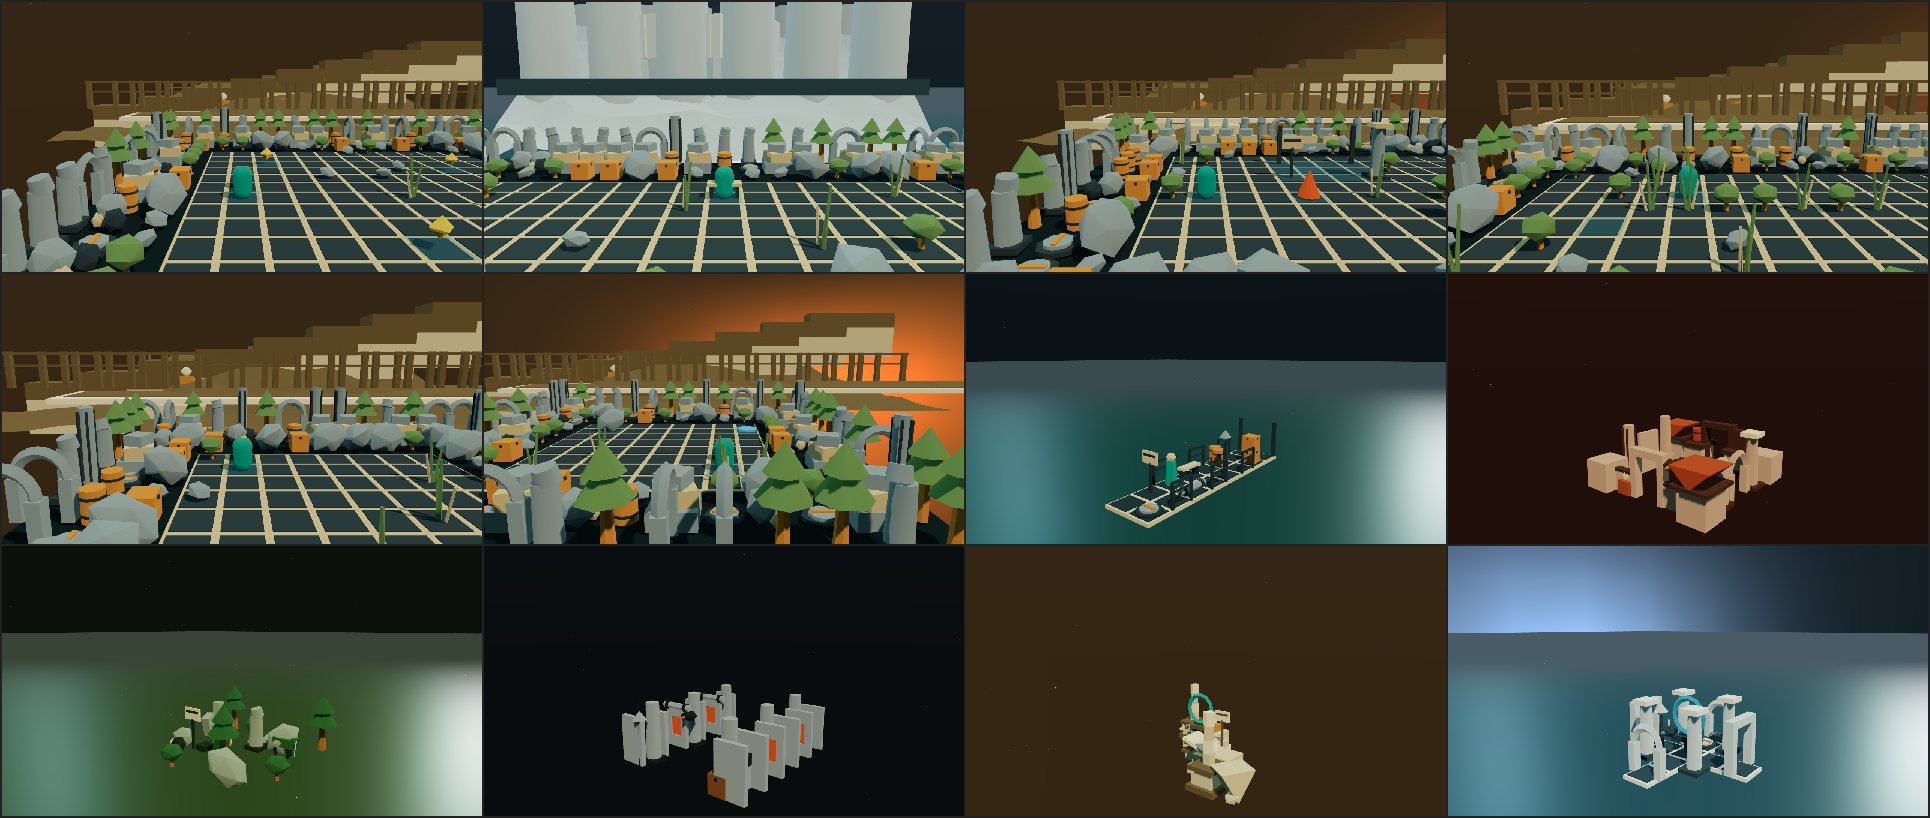
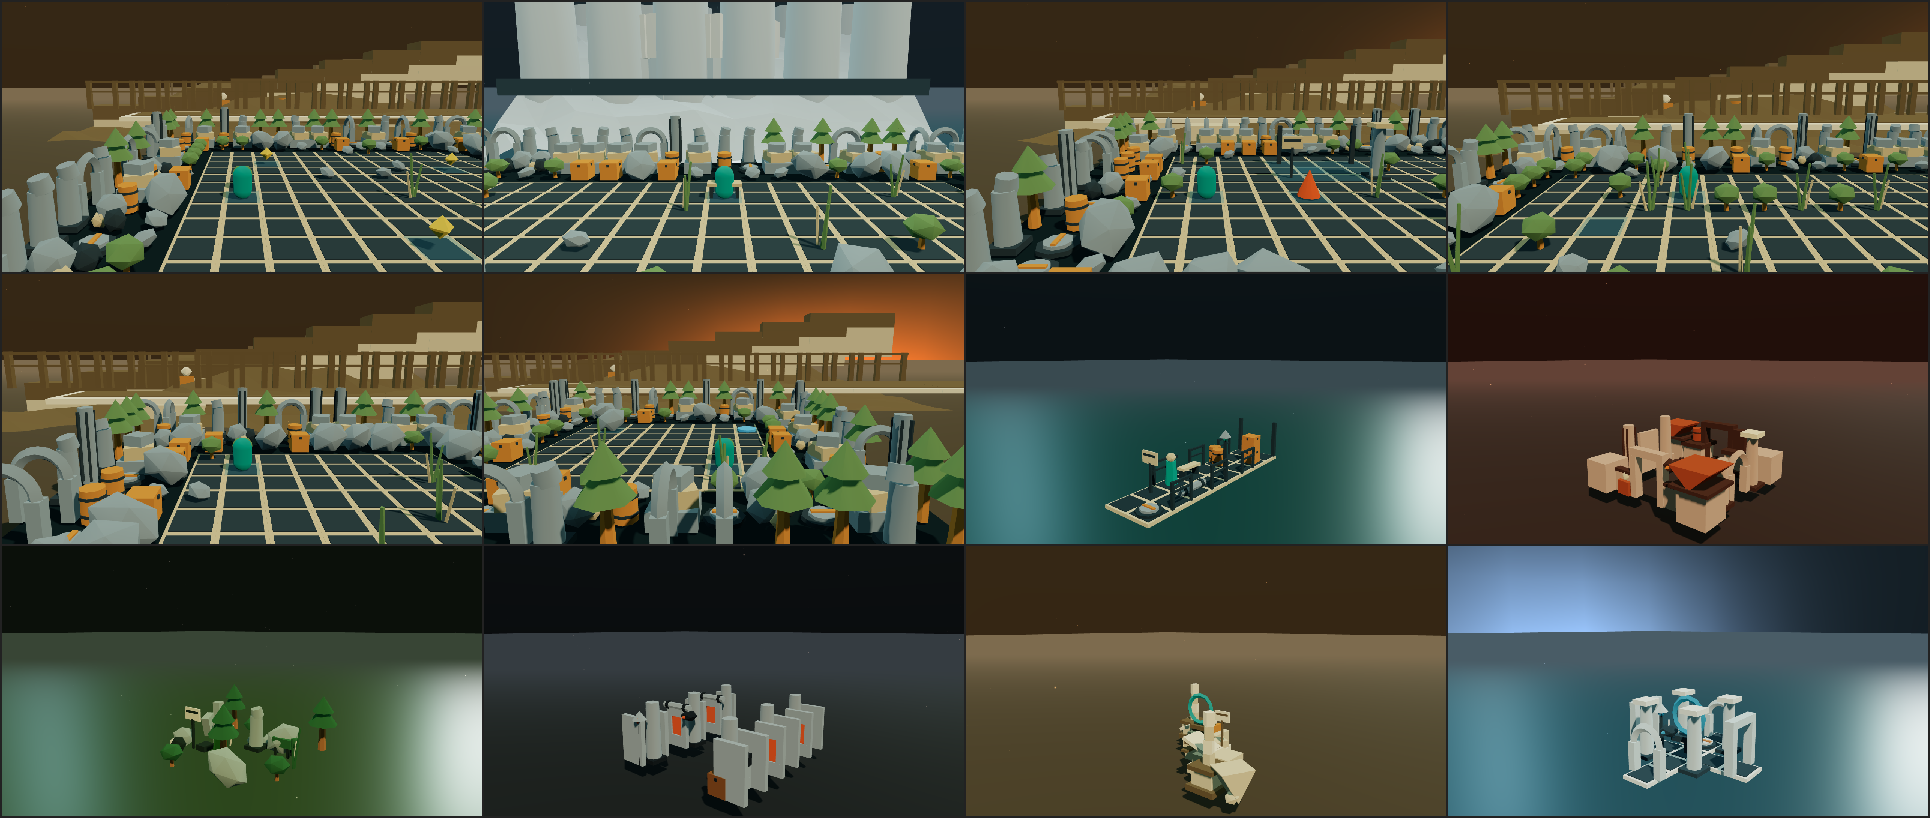
feat(worldstream): give every world ground to stand on

diff --git a/e2e/worldstream-atmosphere.spec.ts b/e2e/worldstream-atmosphere.spec.ts
@@ -12,27 +12,26 @@ import { IMAGE_THRESHOLDS, measureImage } from '../src/worldstream/image-judge';
  * existuje — čte **pixely, které plátno doopravdy nakreslilo**, přes
  * `window.__viewer.pixels()`.
  *
- * ## Podíl oblohy dnes neměří atmosféru, měří rámování
+ * ## Podíl oblohy: nejdřív měřil rámování, teď soudí obojí
  *
- * **Kamera produktu míří celým snímkem do země.** Statický pohled sedí na
- * `[7, 7, 9]` a míří do počátku, tedy 31,5° pod vodorovnou, při svislém
- * poloúhlu objektivu 22,5°: horní hrana snímku leží 9° POD obzorem. Herní
- * pohled je horší, `FOLLOW_OFFSET {0, 6, 7,5}` klopí o 38,7°.
+ * **Do 28. 8. 2026 mířila kamera produktu celým snímkem do země.** Statický
+ * pohled seděl na `[7, 7, 9]` a mířil do počátku, tedy 31,5° pod vodorovnou
+ * při svislém poloúhlu 22,5°: horní hrana snímku ležela 9° POD obzorem. Herní
+ * pohled byl horší, odstup `{0, 6, 7.5}` klopil o 38,7°. Podíl oblohy se tady
+ * proto **měřil a vypisoval, ale nesoudil** — vypovídal o kameře, ne o vzduchu.
  *
- * Naměřeno 28. 8. 2026, a ta dvě čísla jsou celý problém:
+ * Tři kroky, každý se svým naměřeným číslem:
  *
- * | Svět | Obloha | Mrtvá plocha | Odstíny |
+ * | Svět | Do T8 | Po T8 (rámování) | Po zemi (H2) |
  * |---|---|---|---|
- * | `harbor-pier` | **0,0 %** — podlaha kitu zakryje pozadí beze zbytku | 0,28 | 3 |
- * | `dunes-terrace` | **94,9 %** — podlaha dojde a zbytek je prázdná koule | **0,88** | 1 |
- * | `frost-plateau` | **0,0 %** | 0,31 | 1 |
+ * | `harbor-pier` | 0,0 % · mrtvá 0,28 | 32,0 % · 0,34 | 32,0 % · 0,34 |
+ * | `dunes-terrace` | 94,9 % · **0,88** | 96,2 % · **0,84** | **32,5 % · 0,55** |
+ * | `frost-plateau` | 0,0 % · 0,31 | 31,8 % · 0,21 | 31,8 % · 0,19 |
  *
- * Atmosféra je v obou případech tatáž a pracuje správně. Liší se jen to, kam
- * se kamera dívá — a **rámování vlastní T8**, ne tahle úloha: `FollowCamera.tsx`
- * je v jejím seznamu souborů a její AC žádá oblohu na 15–45 % plochy nad všemi
- * dvaceti světy. Podíl oblohy se tu proto **měří a vypisuje, ale nesoudí**;
- * soudí se počet světů, které soudce označí za mrtvé, a ten je připíchnutý.
- * Viz `Findings routed by the run` v `plans/P14-2026-08-28-vizualni-vrstva.md`.
+ * **T8 spravila dva světy ze tří a na třetí nestačila**, protože `dunes-terrace`
+ * nemá vodu a kit pod svět podlahu nestaví — pod obzorem tam nebylo nic, a to
+ * platí pro každý úhel. Doplnila to zem jako samostatné pole popisu vzhledu.
+ * Od té doby se podíl oblohy **soudí** pásmem 15–45 %.
  *
  * ## Co tedy tenhle soubor doopravdy hlídá
  *
@@ -57,28 +56,18 @@ const SETTLE_FRAMES = 5;
 /**
  * Kolik světů smí soudce označit za mrtvá plocha.
  *
- * Není to cíl, je to **připíchnutý stav**: naměřeno 28. 8. 2026 propadá jediný
- * ze tří, `dunes-terrace` — kamera ho zarámovala jako prázdnou oblohu.
+ * **Nula, a je to naměřené číslo, ne cíl.** Historie: do rámování propadal
+ * jediný ze tří, `dunes-terrace` s 0,88. Po spočítaném rámování (T8) zůstal na
+ * 0,84 — kamera za to nemohla, ten svět neměl **zem**. Po zavedení země
+ * (rozhodnutí uživatele v bráně H2) spadl na 0,55.
  *
- * **Odhad byl dva, měření řeklo jedna.** `frost-plateau` vyšlo na 0,31, tedy
- * hluboko pod prahem; propadá jen jedním odstínem, a to soudce mrtvou plochou
- * neměří. Číslo je tady proto, že ho vrátil běh, ne proto, že se čekalo.
- *
- * ## Po T8 se to číslo NEPOHNULO a tady je proč
- *
- * Plán čekal pokles na nulu, jakmile se rámování spočítá ze scény. Rámování se
- * spočítalo a všechny tři světy se zlepšily — `harbor-pier` z 0,28 na 0,34 při
- * pásmech jasu z 0,80 na **1,00**, `frost-plateau` z 0,30 na **0,19** — ale
- * `dunes-terrace` zůstalo na 0,84 proti prahu 0,55.
- *
- * **Kamera za to nemůže, protože v tom světě není nač se dívat.** Popis vzhledu
- * pouštní palety vodu nemá (`deriveLook`, naměřeno v T3: hladina maluje 0,00 %
- * plochy) a kit sám žádnou zem pod svět nestaví. Pod obzorem tedy neleží
- * podlaha, leží tam koule oblohy — a to je pravda pro každý úhel, ze kterého se
- * kamera podívá. Oprava patří do vzhledu, ne do rámování; je routovaná jako
- * `T8-ground` v `plans/P14-2026-08-28-vizualni-vrstva.md`.
+ * ⚠ **`dunes-terrace` je pořád nejtěsnější svět v sadě.** Práh je 0,55; tady
+ * naměřeno **0,53**, na kontaktním listu **0,549** — týž svět, jiný výřez.
+ * Když tenhle test zčervená právě na něm, není to regrese o milimetr od nuly,
+ * je to ten svět, který stojí na hraně. Opravit ho má T11 (opravná vrstva), ne
+ * zvednutí pinu. Propadá i tak na počtu odstínů, takže hotový není.
  */
-const DEAD_WORLDS_UNTIL_FRAMING = 1;
+const DEAD_WORLDS_UNTIL_FRAMING = 0;
 
 /**
  * Pásmo, ve kterém má obloha zabírat plochu snímku — AC úlohy T8.
@@ -89,15 +78,18 @@ const DEAD_WORLDS_UNTIL_FRAMING = 1;
 const SKY_BAND = { min: 0.15, max: 0.45 } as const;
 
 /**
- * Světy, které do pásma zatím nespadnou — **jménem, ne počtem**.
+ * Světy, které do pásma nespadnou — **jménem, ne počtem**.
  *
  * Počet by prošel i tehdy, kdyby z pásma vypadl jiný svět a tenhle se spravil,
  * což je přesně ta výměna, kterou nikdo nechce přehlédnout.
  *
- * `dunes-terrace` je uvnitř ze stejného důvodu jako u mrtvé plochy výš: nemá
- * zem, takže pod obzorem je obloha. Naměřeno po T8: **96,2 %**.
+ * **Dnes je prázdný a stálo to dva kroky.** `dunes-terrace` tu stálo s 96,2 %
+ * oblohy: nemělo vodu a kit pod svět podlahu nestaví, takže pod obzorem svítila
+ * koule oblohy. Zem ho srovnala na **32,5 %**. Mimo pásmo zůstává jediný svět
+ * celého listu, `C02` — 5,5 %, opačný konec téže osy, kulisa vyplní celý výřez.
+ * Ten se tudy neměří, je routovaný jako `T8-c02`.
  */
-const SKY_OUT_OF_BAND: readonly string[] = ['dunes-terrace'];
+const SKY_OUT_OF_BAND: readonly string[] = [];
 
 /** Svět, na kterém se produkt otevírá. Ten musí obstát celý, ne částečně. */
 const DEFAULT_WORLD = 'harbor-pier';

diff --git a/src/worldstream/look.ts b/src/worldstream/look.ts
@@ -77,6 +77,32 @@ export interface WaterLook {
   readonly color: string;
 }
 
+/**
+ * Zem pod světem.
+ *
+ * **Přidáno 28. 8. 2026 rozhodnutím uživatele v bráně H2**, a je to oprava
+ * naměřené vady, ne nové pole pro jistotu. Do té doby byla jediná zem, kterou
+ * svět mohl mít, **hladina** — kit podlahu pod scénu nestaví. Světy, jejichž
+ * paleta vodu nemá (`kiln`, `foundry`, `dunes`), tak neměly pod obzorem nic
+ * a koule oblohy jim zabírala 90–96 % snímku proti pásmu 15–45 %. Naměřeno na
+ * kontaktním listu po spočítaném rámování: rámování s tím nesvede nic, protože
+ * je to pravda pro každý úhel.
+ *
+ * Leží **pod hladinou**, ne nad ní, takže ve světě s vodou není vidět vůbec
+ * a jeho zavedení nemění ani jeden svět, který už obstál.
+ */
+export interface GroundLook {
+  /**
+   * Kreslí se zem?
+   *
+   * Dnes ji dostane každý svět a nic ji nevypíná — je to pole kontraktu, ne
+   * větev. Otevírá ho T9 pro případ, kdy si model řekne o interiér; do té doby
+   * je `false` platná hodnota, kterou nikdo neposílá.
+   */
+  readonly present: boolean;
+  readonly color: string;
+}
+
 export interface FogLook {
   /** 0 = čirý vzduch, 1 = neprůhledná stěna ve dvou třetinách dohledu. */
   readonly density: number;
@@ -95,6 +121,7 @@ export interface LookDescriptor {
   readonly palette: PaletteName;
   readonly sky: SkyLook;
   readonly water: WaterLook;
+  readonly ground: GroundLook;
   readonly fog: FogLook;
   readonly key: KeyLightLook;
   /** Síla protisvětla, 0–1. Ono odděluje siluetu od pozadí. */
@@ -105,8 +132,17 @@ export interface LookDescriptor {
   readonly dust: number;
 }
 
-/** Sedm polí, nad kterými se soudí rozmanitost. `palette` mezi ně nepatří. */
-export const LOOK_FIELDS = ['sky', 'water', 'fog', 'key', 'rim', 'exposure', 'dust'] as const;
+/** Osm polí, nad kterými se soudí rozmanitost. `palette` mezi ně nepatří. */
+export const LOOK_FIELDS = [
+  'sky',
+  'water',
+  'ground',
+  'fog',
+  'key',
+  'rim',
+  'exposure',
+  'dust',
+] as const;
 
 export type LookField = (typeof LOOK_FIELDS)[number];
 
@@ -287,7 +323,7 @@ function jitter(value: number, spread: number, roll: number): number {
 export function deriveLook(input: LookInput): LookDescriptor {
   const palette: Palette = PALETTES[input.palette];
   const air = BY_PALETTE[input.palette];
-  const ground = BY_TERRAIN[input.terrain];
+  const terrain = BY_TERRAIN[input.terrain];
 
   // Vlastní stream vzhledu. Semínko se posouvá o konstantu, aby se vzhled
   // nelosoval ze stejné posloupnosti jako rozmístění kusů — jinak by přidání
@@ -311,10 +347,14 @@ export function deriveLook(input: LookInput): LookDescriptor {
 
   return {
     palette: input.palette,
-    sky: { color: sky, height: clamp(air.skyHeight + ground.skyHeight, 0.1, 0.9) },
+    sky: { color: sky, height: clamp(air.skyHeight + terrain.skyHeight, 0.1, 0.9) },
     water: { present: air.water, color: mix(palette.deep, palette.accent, 0.28) },
+    // Zem je hmota světa ztmavená do stínu — příbuzná obloze, ale o hodnotu
+    // níž, aby na obzoru vznikl schod. Zem barvy oblohy by vadu neopravila:
+    // soudce by pořád viděl jednu plochu jednoho jasu.
+    ground: { present: true, color: shade(mix(palette.deep, palette.shell, 0.16), -0.3) },
     fog: {
-      density: clamp(jitter(air.fog * ground.fog, 0.08, fogRoll), 0.05, 1),
+      density: clamp(jitter(air.fog * terrain.fog, 0.08, fogRoll), 0.05, 1),
       color: fogColor,
     },
     key: {
@@ -325,9 +365,9 @@ export function deriveLook(input: LookInput): LookDescriptor {
       ],
       temperature: air.temperature,
     },
-    rim: clamp(air.rim * ground.rim, 0.1, 1),
+    rim: clamp(air.rim * terrain.rim, 0.1, 1),
     exposure: clamp(jitter(air.exposure, 0.05, exposureRoll), 0.8, 1.8),
-    dust: clamp(jitter(air.dust * ground.dust, 0.1, dustRoll), 0, 1),
+    dust: clamp(jitter(air.dust * terrain.dust, 0.1, dustRoll), 0, 1),
   };
 }
 

diff --git a/src/components/viewer/Atmosphere.tsx b/src/components/viewer/Atmosphere.tsx
@@ -70,6 +70,15 @@ export const ATMOSPHERE_PREFIX = 'atmosphere:';
 /** Jméno oblohy ve scéně. Čte ho měření podílu oblohy na snímku. */
 export const SKY_NAME = `${ATMOSPHERE_PREFIX}sky`;
 
+/**
+ * Jméno země.
+ *
+ * Je v atmosférické vrstvě, i když zem není počasí: je to **deska vykreslení**
+ * jako hladina, ne kus kitu, a hlavně **nesmí do obalu scény** — deska o straně
+ * 600 by kameru odsunula stejně jako obloha.
+ */
+export const GROUND_NAME = `${ATMOSPHERE_PREFIX}ground`;
+
 /** Jméno prachu. Bez něj se prach počítal do obalu scény — viz `ATMOSPHERE_PREFIX`. */
 export const MOTES_NAME = `${ATMOSPHERE_PREFIX}motes`;
 
@@ -225,6 +234,52 @@ export function Water({
       name={WATER_NAME}
       position={[0, level, depth]}
       rotation={[-Math.PI / 2, 0, 0]}
+    />
+  );
+}
+
+/**
+ * Zem pod světem.
+ *
+ * Táž deska jako hladina, jen neprůhledná, matná a **níž**. Že leží pod
+ * hladinou, je celý trik: svět s vodou se jejím zavedením nezmění o pixel,
+ * protože voda je nad ní a neprůhledná. Svět bez vody dostane poprvé něco pod
+ * obzorem — do 28. 8. 2026 mu tam svítila koule oblohy na 90–96 % plochy.
+ *
+ * Drsnost je vysoká a kovovost nulová, opak hladiny: zem odlesk mít nesmí,
+ * jinak by z ní byla druhá voda.
+ */
+export function Ground({
+  color,
+  level,
+  size = 600,
+}: {
+  readonly color: ColorRepresentation;
+  readonly level: number;
+  readonly size?: number;
+}) {
+  const material = useMemo(
+    () => new MeshStandardMaterial({ color: new Color(color), roughness: 0.95, metalness: 0 }),
+    [color],
+  );
+  const geometry = useMemo(() => new PlaneGeometry(size, size), [size]);
+
+  useEffect(
+    () => () => {
+      material.dispose();
+      geometry.dispose();
+    },
+    [material, geometry],
+  );
+
+  return (
+    <mesh
+      geometry={geometry}
+      material={material}
+      name={GROUND_NAME}
+      position={[0, level, 0]}
+      rotation={[-Math.PI / 2, 0, 0]}
+      receiveShadow
     />
   );
 }
@@ -433,6 +488,15 @@ export function Motes({
  */
 const WATER_SURFACE = -0.35;
 
+/**
+ * Zem leží **pod hladinou**, ne na její úrovni.
+ *
+ * Kdyby seděly na téže výšce, praly by se o hloubku a plocha by blikala.
+ * Patnáct setin pod vodou stačí a je to zároveň důvod, proč zavedení země
+ * nezměnilo ani jeden svět, který už obstál.
+ */
+const GROUND_SURFACE = -0.5;
+
 /** Nejvíc zrnek prachu, které dostane svět s `dust` na jedničce. */
 const MOTE_MAX = 700;
 
@@ -508,6 +572,9 @@ export function Atmosphere({ look, seed }: { readonly look: LookDescriptor; read
         sun={sun}
         height={look.sky.height}
       />
+      {look.ground.present ? (
+        <Ground color={look.ground.color} level={GROUND_SURFACE} />
+      ) : null}
       {look.water.present ? (
         <Water color={look.water.color} level={WATER_SURFACE} depth={0} />
       ) : null}

diff --git a/src/worldstream/__tests__/look.test.ts b/src/worldstream/__tests__/look.test.ts
@@ -215,14 +215,42 @@ describe('pravidla, která odvození nesmí porušit', () => {
     }
   });
 
-  it('sedm polí je sedm a jsou to ta, která popis nese', () => {
+  it('osm polí je osm a jsou to ta, která popis nese', () => {
     const look = deriveLook({ palette: 'worldstream', terrain: 'flat', seed: 1 });
 
-    expect(LOOK_FIELDS.length).toBe(7);
-    // `palette` je vstup, ne osmé pole — a `LOOK_FIELDS` ho proto nesmí nést.
+    // **Bylo sedm, je osm — a tady je proč.** `ground` přibylo 28. 8. 2026
+    // rozhodnutím uživatele v bráně H2. Do té doby byla jediná zem, kterou svět
+    // mohl mít, hladina, takže tři palety bez vody neměly pod obzorem nic
+    // a obloha jim brala 90–96 % snímku. Číslo se nepřepsalo, aby test zezelenal
+    // — pohnulo se, protože se popis rozrostl o pole, které mu chybělo.
+    expect(LOOK_FIELDS.length).toBe(8);
+    // `palette` je vstup, ne deváté pole — a `LOOK_FIELDS` ho proto nesmí nést.
     expect(Object.keys(look).filter((key) => !LOOK_FIELDS.includes(key as never))).toEqual([
       'palette',
     ]);
+  });
+
+  it('každý svět má zem, a ta je tmavší než jeho obloha', () => {
+    // Zem barvy oblohy by vadu neopravila: soudce by pořád viděl jednu plochu
+    // jednoho jasu, jen by ji maloval jiný objekt. Rozdíl hodnot je celý smysl.
+    const luminance = (hex: string): number => {
+      const value = Number.parseInt(hex.slice(1), 16);
+      return (
+        (0.2126 * ((value >> 16) & 0xff) + 0.7152 * ((value >> 8) & 0xff) + 0.0722 * (value & 0xff)) /
+        255
+      );
+    };
+
+    for (const palette of ['harbor', 'kiln', 'thicket', 'foundry', 'dunes', 'frost'] as const) {
+      const look = deriveLook({ palette, terrain: 'flat', seed: 7 });
+
+      expect(look.ground.present, `${palette} nemá zem`).toBe(true);
+      expect(look.ground.color).toMatch(/^#[0-9a-f]{6}$/);
+      expect(
+        luminance(look.ground.color),
+        `${palette}: zem ${look.ground.color} není tmavší než obloha ${look.sky.color}`,
+      ).toBeLessThan(luminance(look.sky.color));
+    }
   });
 
   it('jediná PRNG je pure-rand', () => {
